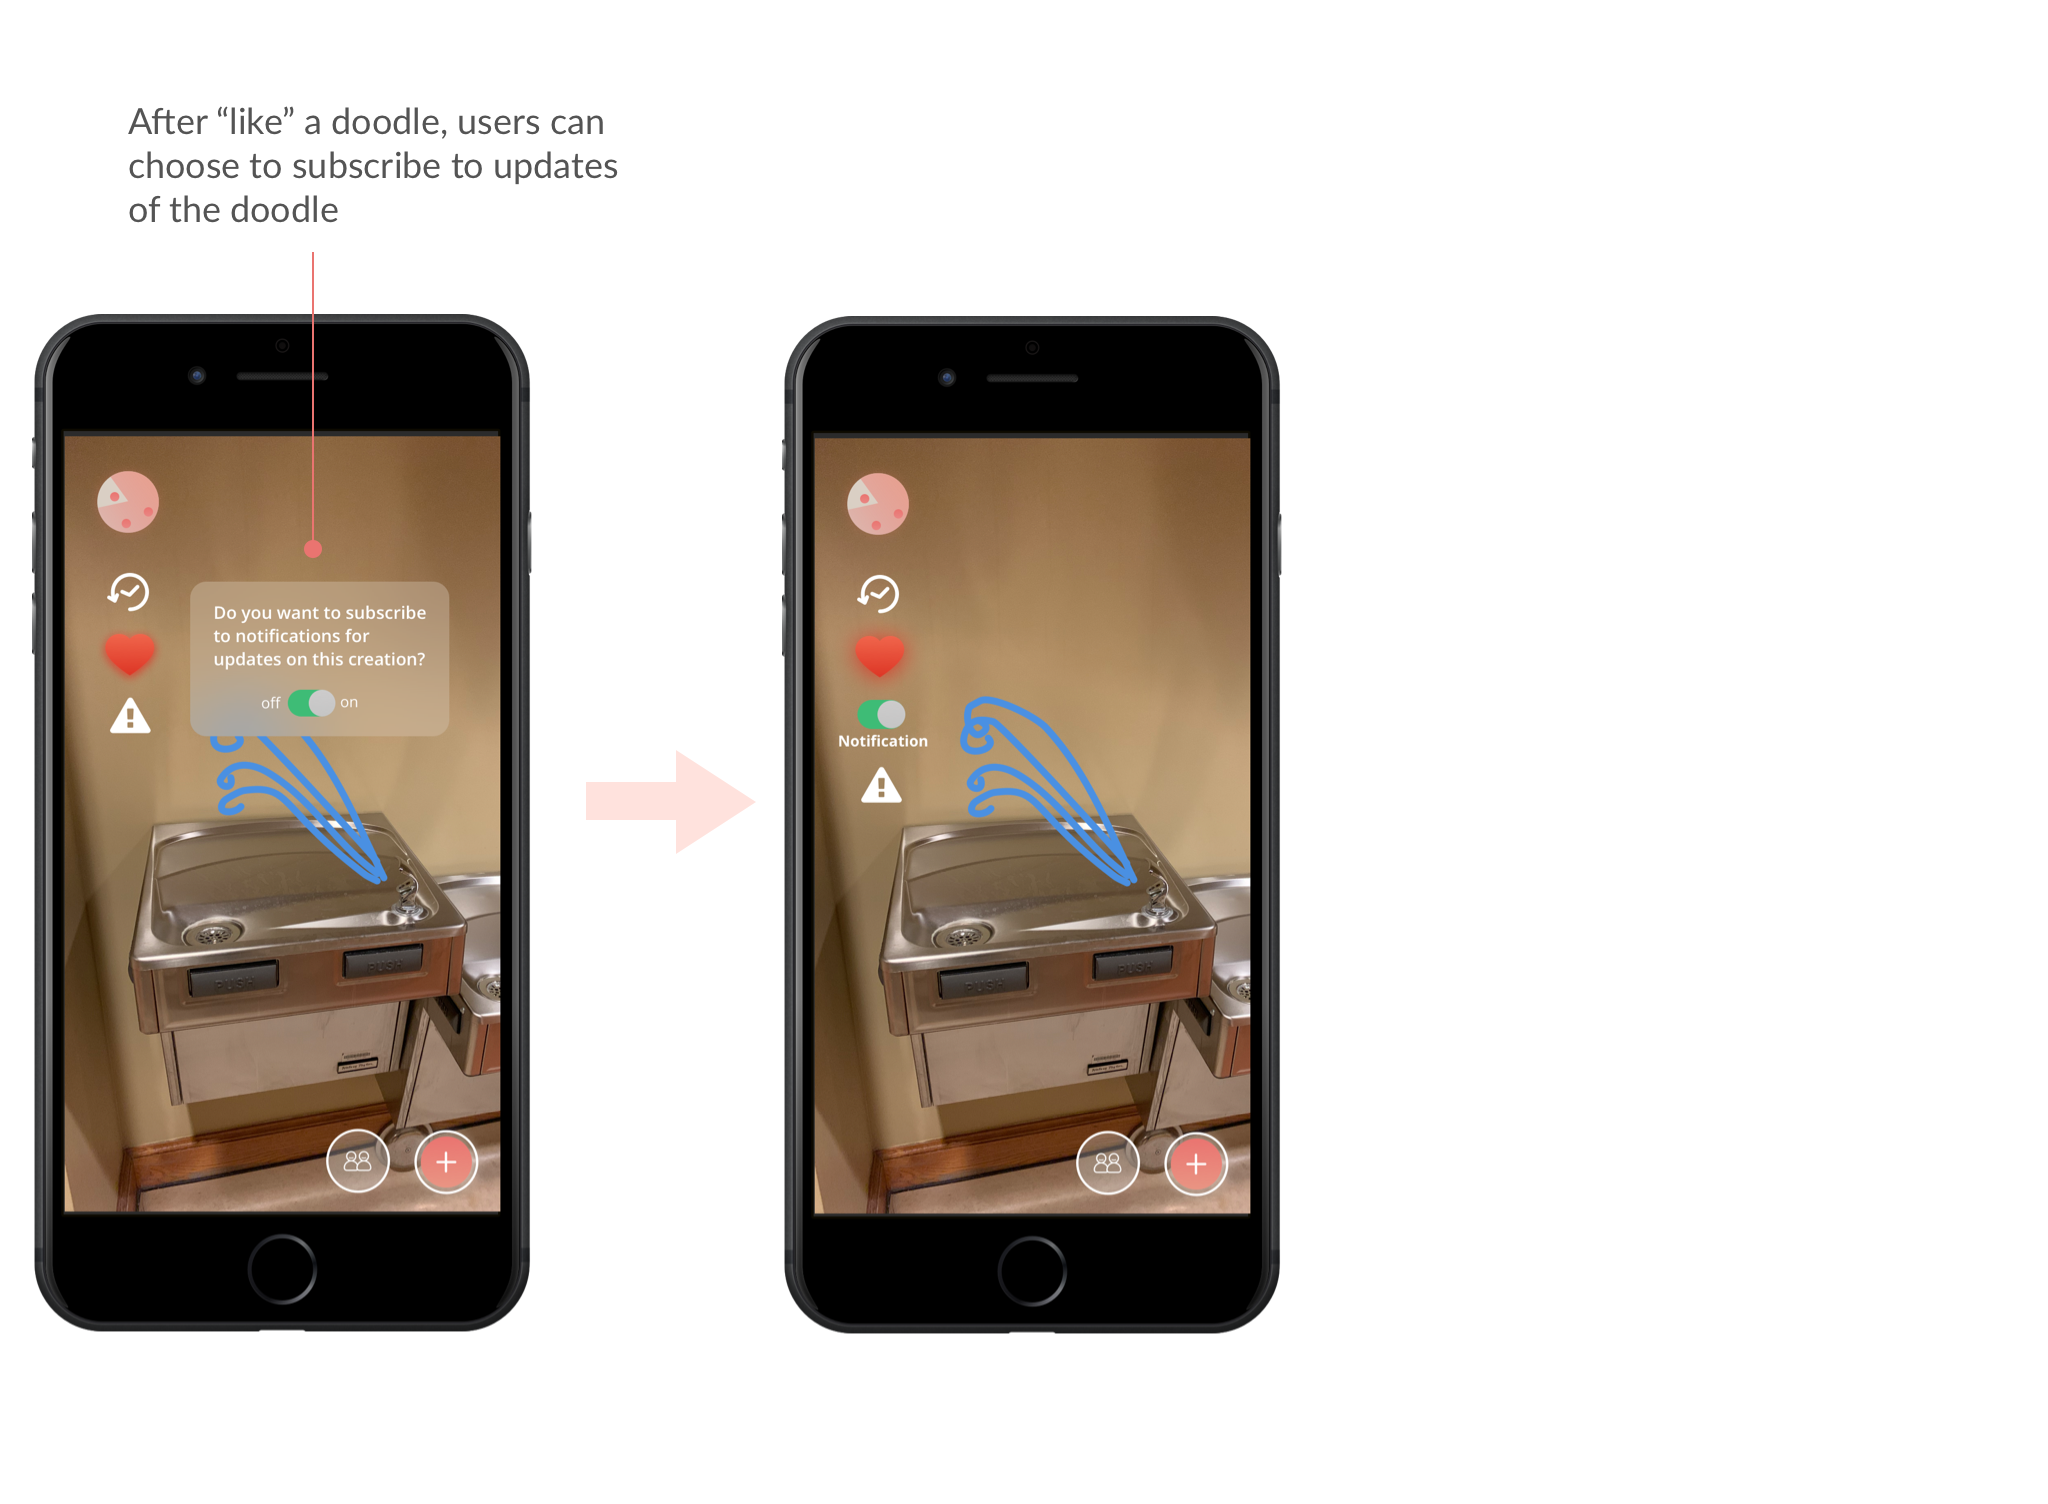
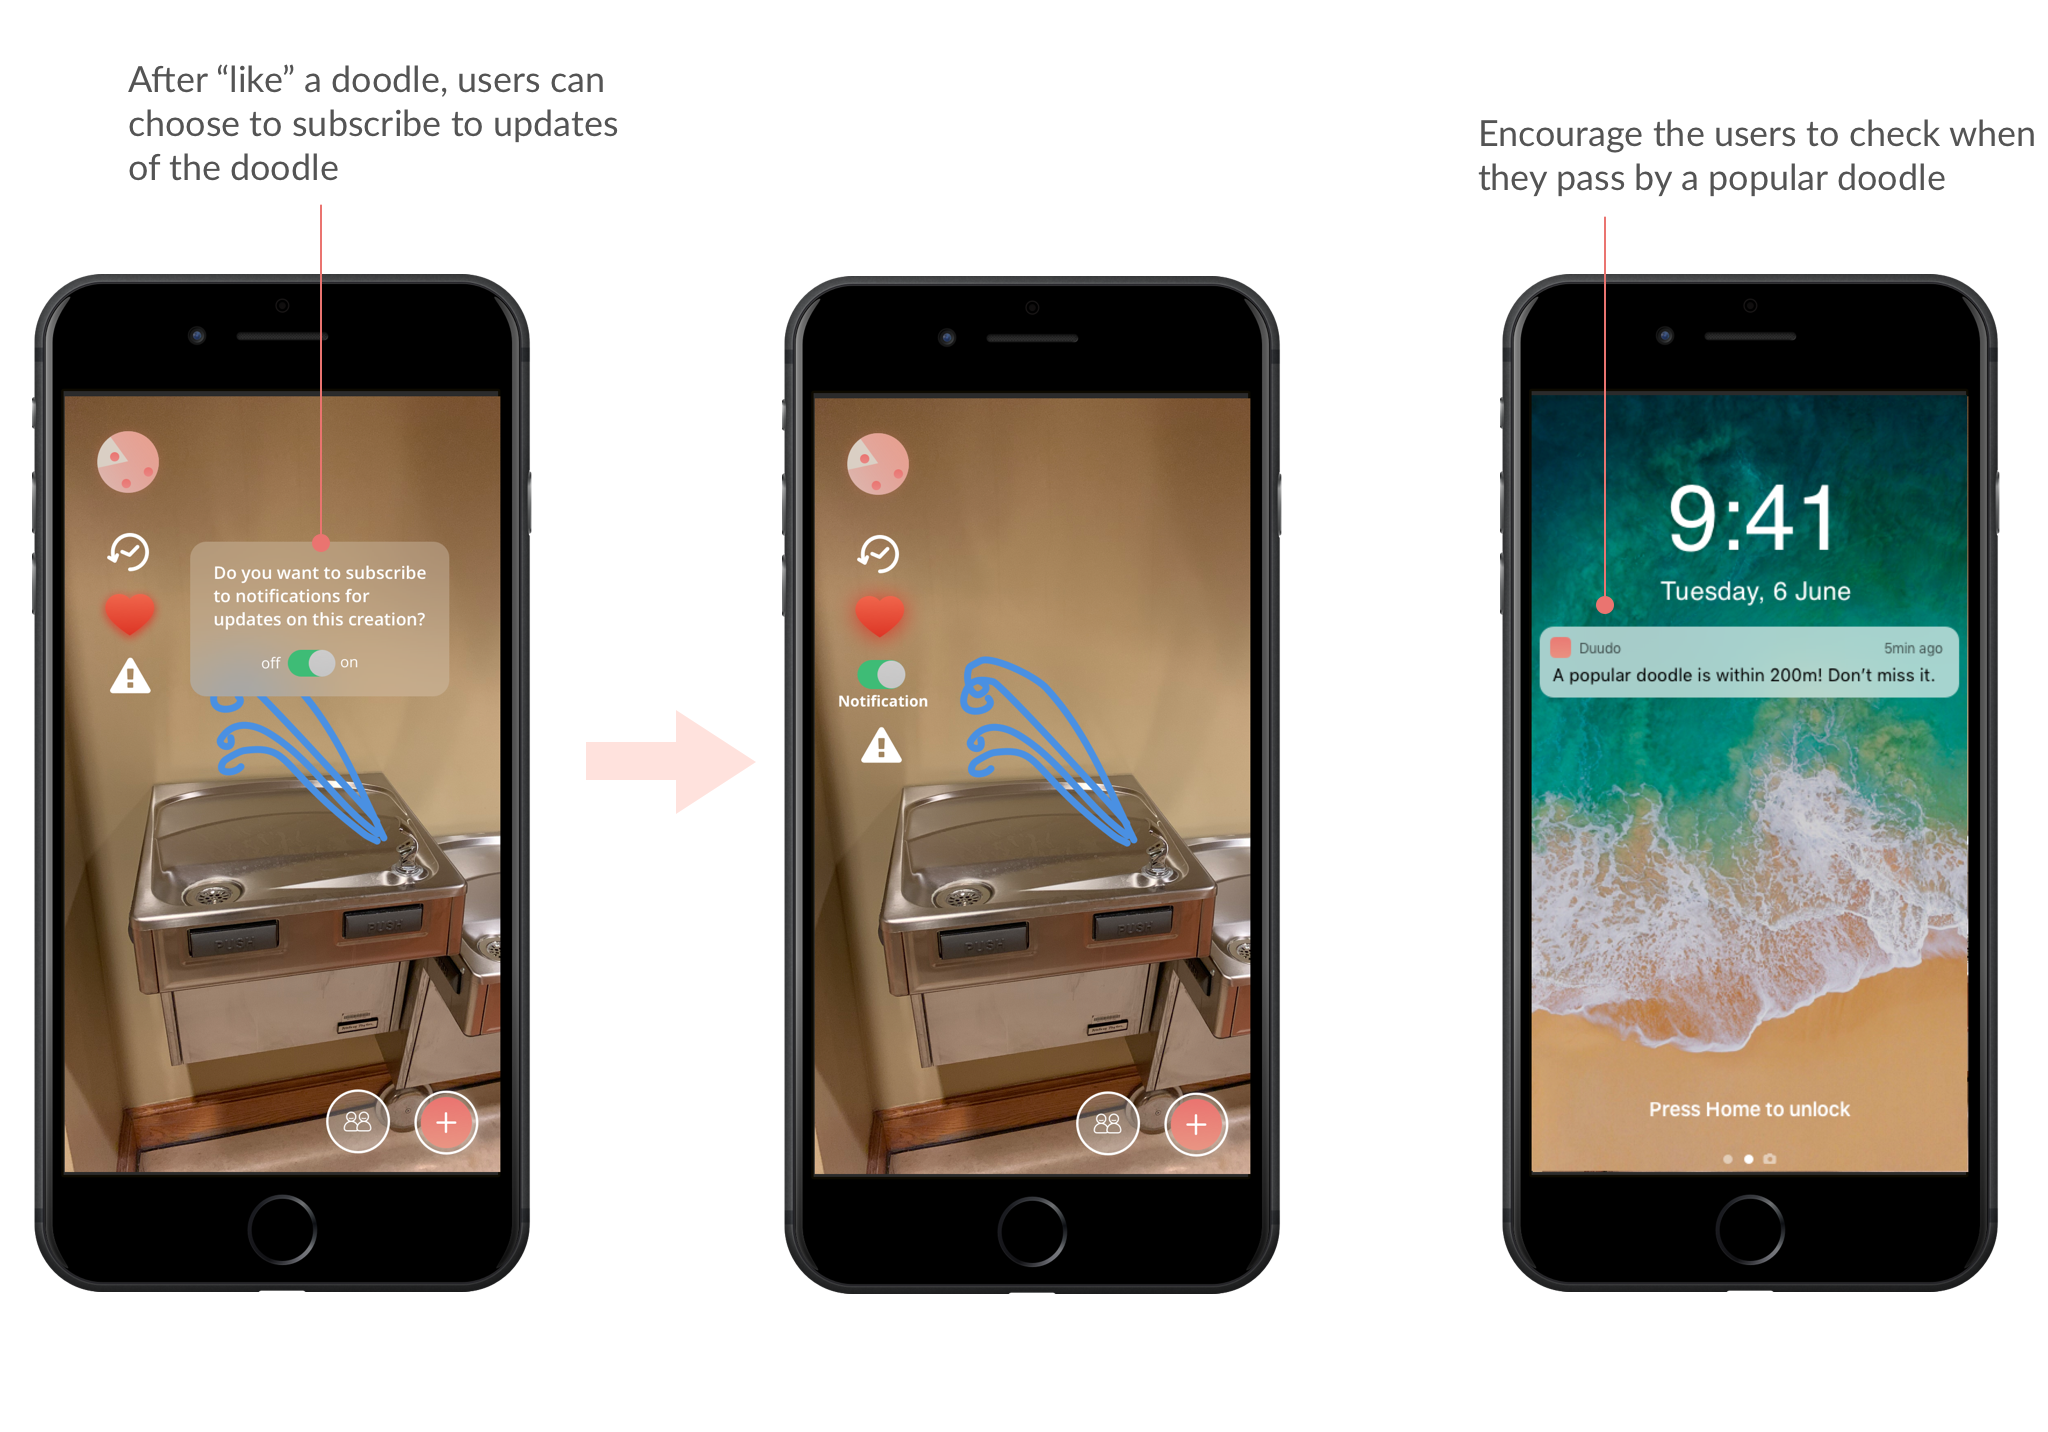
upload

diff --git a/duudo.html b/duudo.html
@@ -254,13 +254,13 @@
 
     <div class="row mt-5">
       <div class="col mx-2">
-        <div class="screen-title"><a src="https://justaline.withgoogle.com/">Google AR: Just a Line</a></div>
+        <div class="screen-title mb-1"><strong>Google AR: Just a Line</strong></div>
         <img class="" src="img/duudo/draw_1.png"></img>
         <div class="mt-4 screen-title"><i class="fas fa-lightbulb bulb-color mr-2"></i> Drawing experience is entertaining
           </br><i class="fas fa-times-circle mr-2 wrong-color"></i>Not accurate</br><i class="fas fa-times-circle mr-2 wrong-color"></i>Exaggerated action causes embarrassment</div>
       </div>
       <div class="col mx-2">
-        <div class="screen-title">Traditional Screen Drawing</div>
+        <div class="screen-title mb-1"><strong>Traditional Screen Drawing</strong></div>
         <img class="" src="img/duudo/draw_2.png"></img>
         <div class="mt-4 screen-title"><i class="fas fa-lightbulb bulb-color mr-2"></i> Easy to control brush</br><i class="fas fa-lightbulb bulb-color mr-2"></i> Drawing is more recognizable
           </br><i class="fas fa-times-circle mr-2 wrong-color"></i>Screen is limited in space</div>
@@ -273,7 +273,18 @@
     <img class="" src="img/duudo/process_draw.png"></img>
     <div class="blog-content-normal mt-5"><a class="blog-subtitle black"><strong>Invite Friends</strong></a></div>
     <img class="" src="img/duudo/process_invite.png"></img>
-    <div class="blog-content-normal mt-5"><a class="blog-subtitle black"><strong>Updates Subscription</strong></a></div>
+
+    <div class="row mt-5">
+      <div class="col mx-2">
+        <div class="blog-content-normal mt-5"><a class="blog-subtitle black"><strong>Subscription</strong></a></div>
+      </div>
+      <div class="col mx-2">
+
+      </div>
+      <div class="col mx-2">
+        <div class="blog-content-normal mt-5"><a class="blog-subtitle black"><strong>Notification</strong></a></div>
+      </div>
+    </div>
     <img class="" src="img/duudo/process_subscribe.png"></img>
 
     <h1 class="blog-section-subheader mt-5">Iteration</h1>
